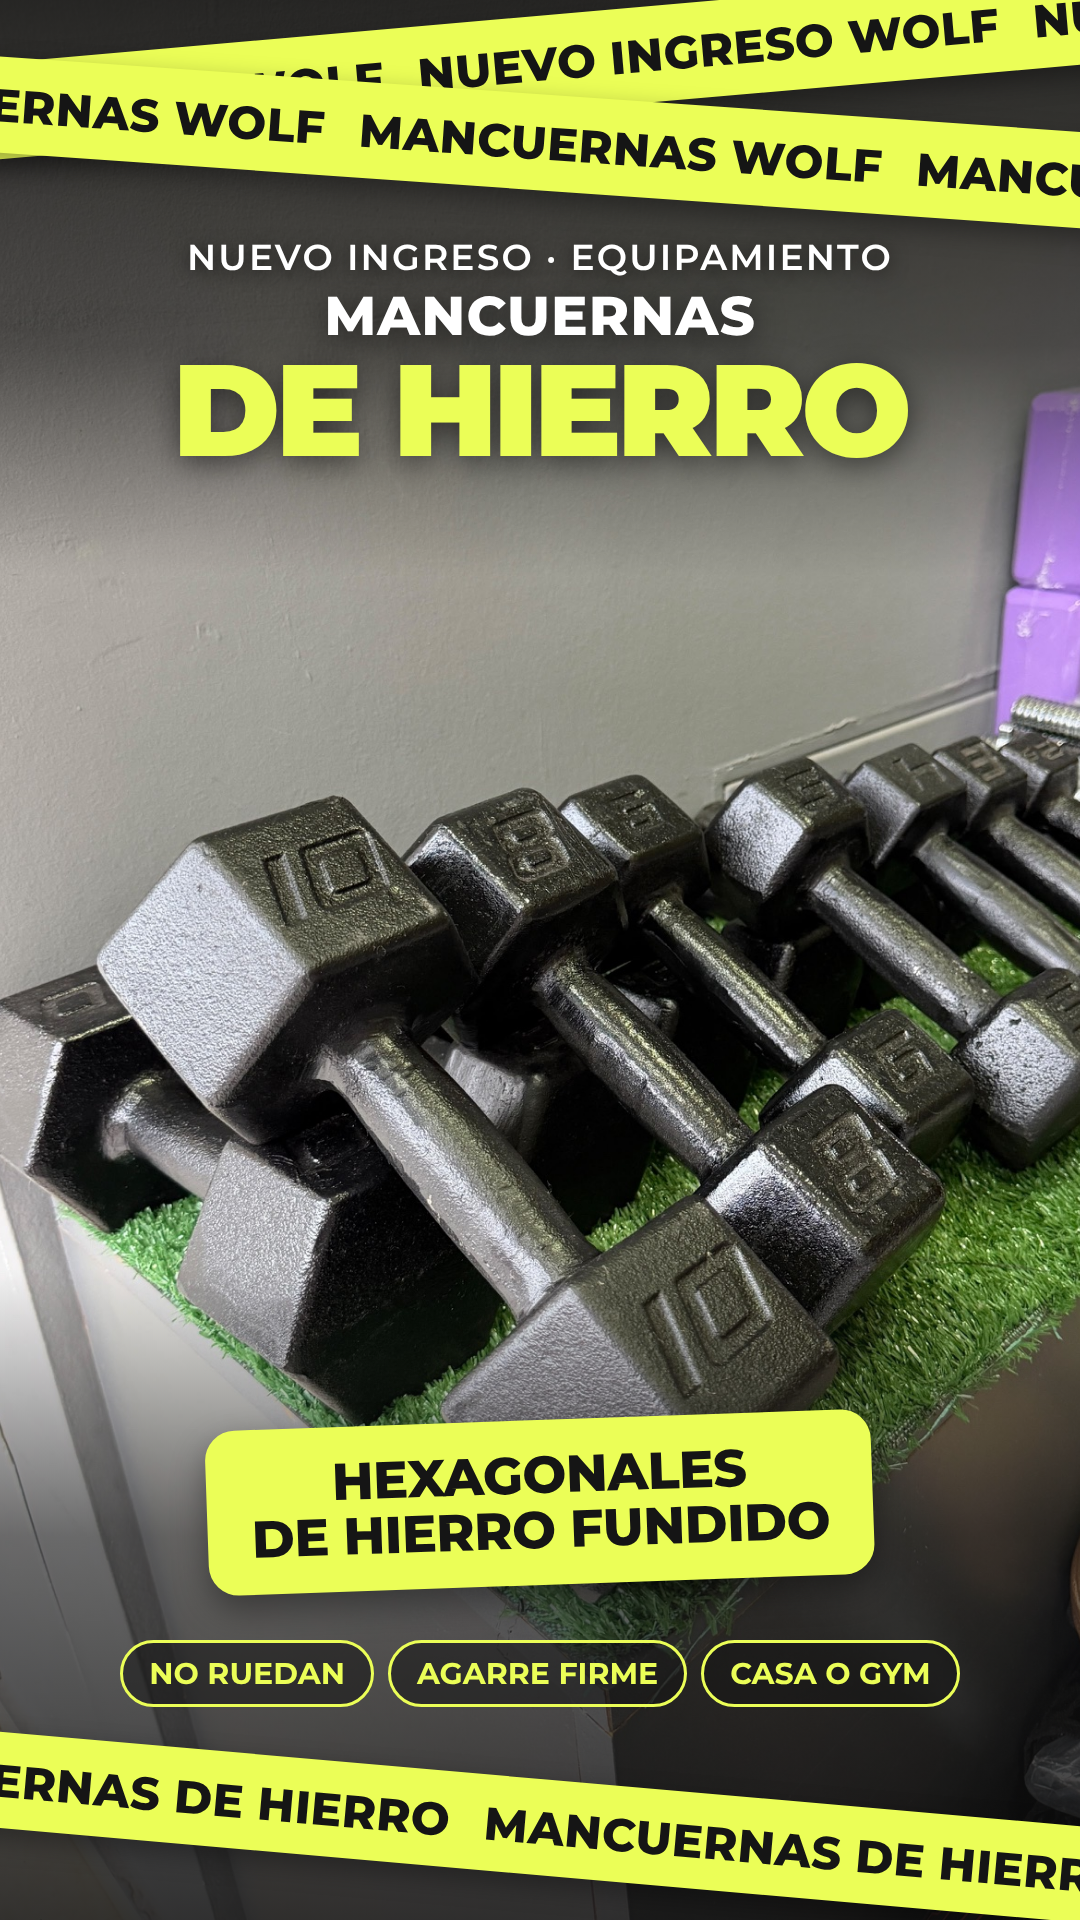
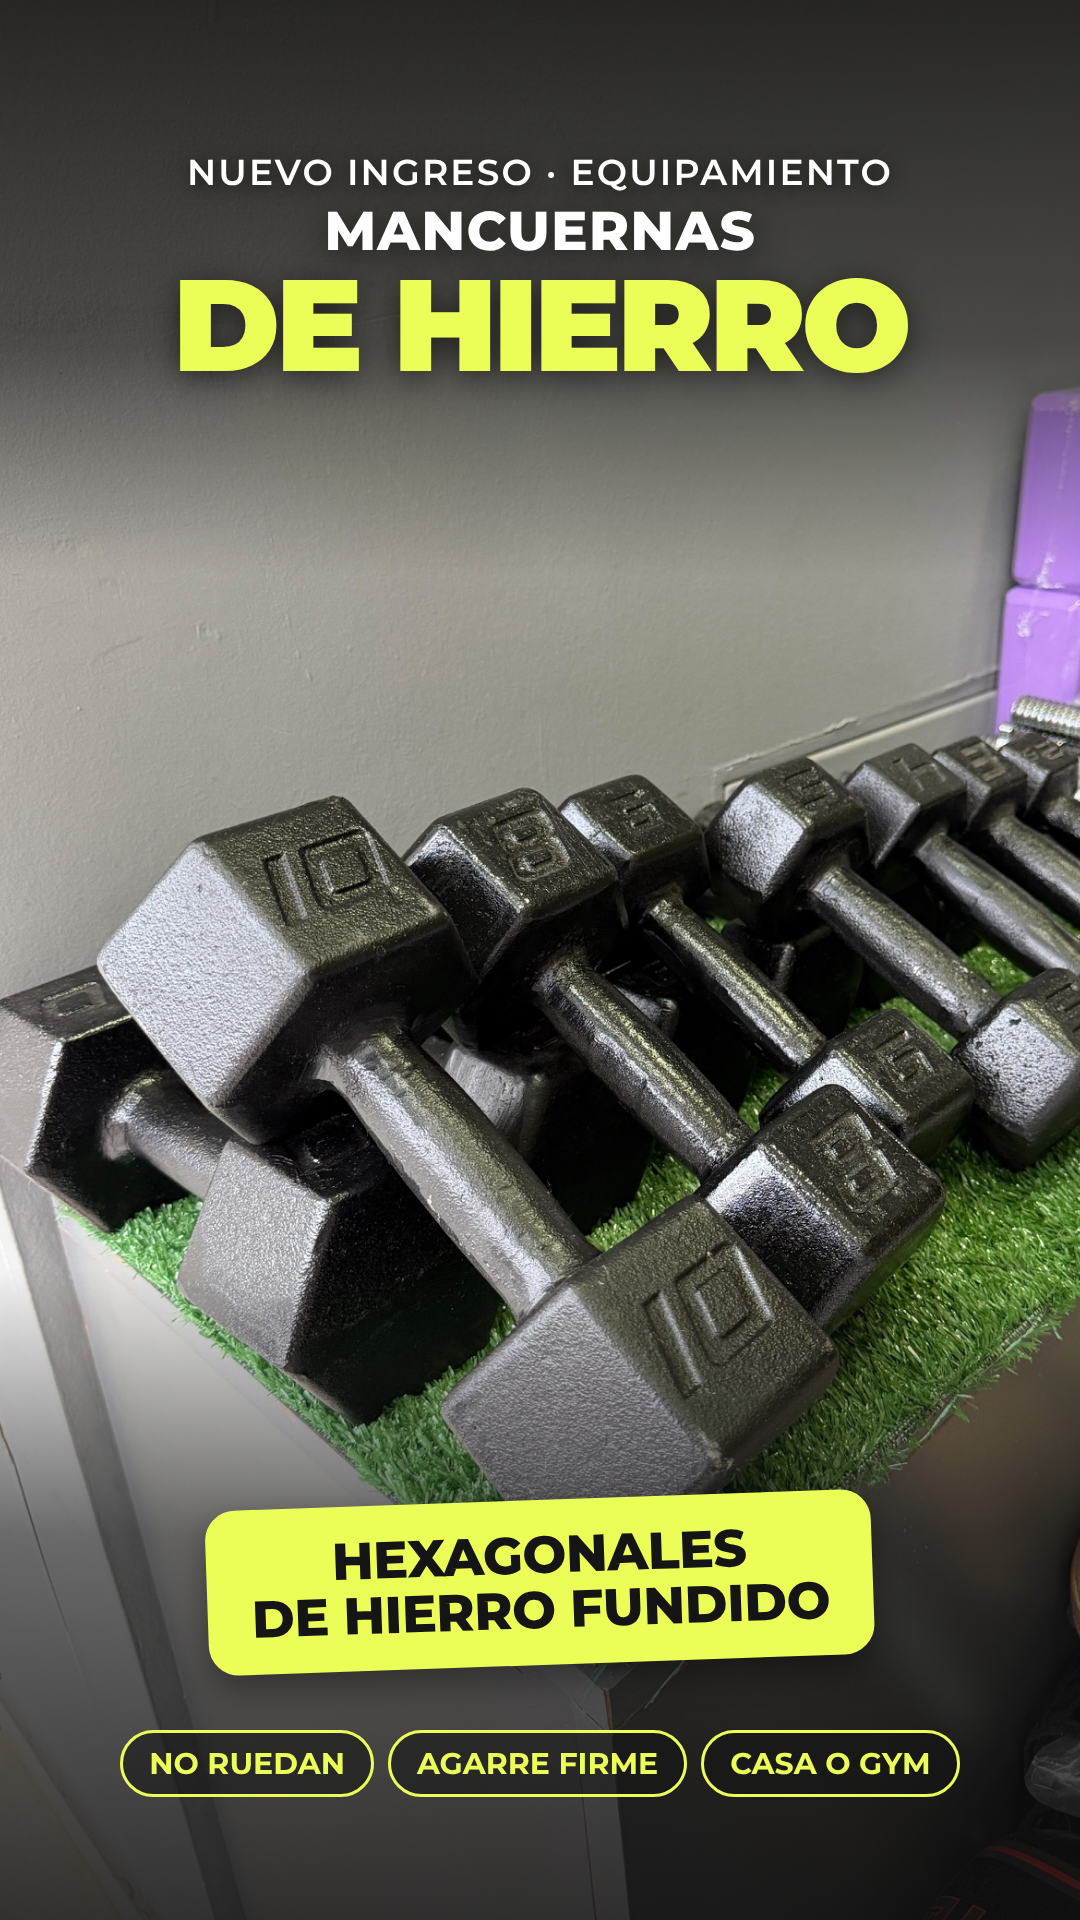
Historias equipamiento Wolf: quitar cintas
Claude-Session: https://claude.ai/code/session_014Xof4dSmfPa2gf1dmKRBzh

Changed region(s): [[0.0, 0.7188, 1.0, 1.0], [0.0, 0.0, 1.0, 0.25]]

diff --git a/wolf-equipamiento/historias.html b/wolf-equipamiento/historias.html
@@ -47,33 +47,24 @@
 
 <section class="story" id="s1" style="background:#2b2a28">
   <img class="full" src="img/hierro.jpg" style="object-position:15% 50%"><div class="shade"></div>
-  <div class="tape" style="top:15px;transform:rotate(-5deg)"><span>NUEVO INGRESO WOLF</span><span>NUEVO INGRESO WOLF</span><span>NUEVO INGRESO WOLF</span><span>NUEVO INGRESO WOLF</span><span>NUEVO INGRESO WOLF</span></div>
-  <div class="tape" style="top:95px;transform:rotate(4deg)"><span>MANCUERNAS WOLF</span><span>MANCUERNAS WOLF</span><span>MANCUERNAS WOLF</span><span>MANCUERNAS WOLF</span><span>MANCUERNAS WOLF</span></div>
-  <div class="kicker" style="top:235px">Nuevo ingreso · Equipamiento</div>
-  <div class="flavor" style="top:290px;font-size:130px"><small>Mancuernas</small>De hierro</div>
-  <div class="box" style="top:1420px;transform:translateX(-50%) rotate(-2deg);font-size:52px">Hexagonales<br>de hierro fundido</div>
-  <div class="pills" style="top:1640px"><span>No ruedan</span><span>Agarre firme</span><span>Casa o gym</span></div>
-  <div class="tape" style="top:1780px;transform:rotate(5deg)"><span>MANCUERNAS DE HIERRO</span><span>MANCUERNAS DE HIERRO</span><span>MANCUERNAS DE HIERRO</span><span>MANCUERNAS DE HIERRO</span><span>MANCUERNAS DE HIERRO</span></div>
+  <div class="kicker" style="top:150px">Nuevo ingreso · Equipamiento</div>
+  <div class="flavor" style="top:205px;font-size:130px"><small>Mancuernas</small>De hierro</div>
+  <div class="box" style="top:1500px;transform:translateX(-50%) rotate(-2deg);font-size:52px">Hexagonales<br>de hierro fundido</div>
+  <div class="pills" style="top:1730px"><span>No ruedan</span><span>Agarre firme</span><span>Casa o gym</span></div>
 </section>
 <section class="story" id="s2" style="background:#2b2a28">
   <img class="full" src="img/goma.jpg" style="object-position:50% 50%"><div class="shade"></div>
-  <div class="tape" style="top:15px;transform:rotate(5deg)"><span>NUEVO INGRESO WOLF</span><span>NUEVO INGRESO WOLF</span><span>NUEVO INGRESO WOLF</span><span>NUEVO INGRESO WOLF</span><span>NUEVO INGRESO WOLF</span></div>
-  <div class="tape" style="top:95px;transform:rotate(-4deg)"><span>DE 2 A 10 KG</span><span>DE 2 A 10 KG</span><span>DE 2 A 10 KG</span><span>DE 2 A 10 KG</span><span>DE 2 A 10 KG</span></div>
-  <div class="kicker" style="top:235px">Mancuernas recubiertas en goma</div>
-  <div class="flavor" style="top:290px;font-size:150px"><small>Nuevo ingreso</small>2 a 10 kg</div>
-  <div class="box" style="top:1420px;transform:translateX(-50%) rotate(2deg);font-size:52px">Mancuernas<br>de goma</div>
-  <div class="pills" style="top:1640px"><span>Hexagonales</span><span>Cuidan el piso</span></div>
-  <div class="tape" style="top:1780px;transform:rotate(-4deg)"><span>DE 2 A 10 KG</span><span>DE 2 A 10 KG</span><span>DE 2 A 10 KG</span><span>DE 2 A 10 KG</span><span>DE 2 A 10 KG</span></div>
+  <div class="kicker" style="top:150px">Mancuernas recubiertas en goma</div>
+  <div class="flavor" style="top:205px;font-size:150px"><small>Nuevo ingreso</small>2 a 10 kg</div>
+  <div class="box" style="top:1500px;transform:translateX(-50%) rotate(2deg);font-size:52px">Mancuernas<br>de goma</div>
+  <div class="pills" style="top:1730px"><span>Hexagonales</span><span>Cuidan el piso</span></div>
 </section>
 <section class="story" id="s3" style="background:#e6e6e4">
-  <img src="img/chaleco.jpg" style="position:absolute;left:0;top:230px;width:1080px;height:1920px;object-fit:cover"><div class="shade"></div>
-  <div class="tape" style="top:15px;transform:rotate(-5deg)"><span>NUEVO INGRESO WOLF</span><span>NUEVO INGRESO WOLF</span><span>NUEVO INGRESO WOLF</span><span>NUEVO INGRESO WOLF</span><span>NUEVO INGRESO WOLF</span></div>
-  <div class="tape" style="top:95px;transform:rotate(4deg)"><span>CHALECO DE LASTRE</span><span>CHALECO DE LASTRE</span><span>CHALECO DE LASTRE</span><span>CHALECO DE LASTRE</span><span>CHALECO DE LASTRE</span></div>
-  <div class="kicker" style="top:235px">Chaleco de lastre · Big Company</div>
-  <div class="flavor" style="top:290px;font-size:190px"><small>Nuevo ingreso</small>20 kg</div>
-  <div class="box" style="top:1420px;transform:translateX(-50%) rotate(-2deg);font-size:52px">Sumale peso<br>a tu entrenamiento</div>
-  <div class="pills" style="top:1640px"><span>Correas regulables</span><span>Funcional</span><span>Calistenia</span></div>
-  <div class="tape" style="top:1780px;transform:rotate(5deg)"><span>CHALECO DE LASTRE 20 KG</span><span>CHALECO DE LASTRE 20 KG</span><span>CHALECO DE LASTRE 20 KG</span><span>CHALECO DE LASTRE 20 KG</span><span>CHALECO DE LASTRE 20 KG</span></div>
+  <img src="img/chaleco.jpg" style="position:absolute;left:0;top:150px;width:1080px;height:1920px;object-fit:cover"><div class="shade"></div>
+  <div class="kicker" style="top:150px">Chaleco de lastre · Big Company</div>
+  <div class="flavor" style="top:205px;font-size:190px"><small>Nuevo ingreso</small>20 kg</div>
+  <div class="box" style="top:1500px;transform:translateX(-50%) rotate(-2deg);font-size:52px">Sumale peso<br>a tu entrenamiento</div>
+  <div class="pills" style="top:1730px"><span>Correas regulables</span><span>Funcional</span><span>Calistenia</span></div>
 </section>
 </body>
 </html>
